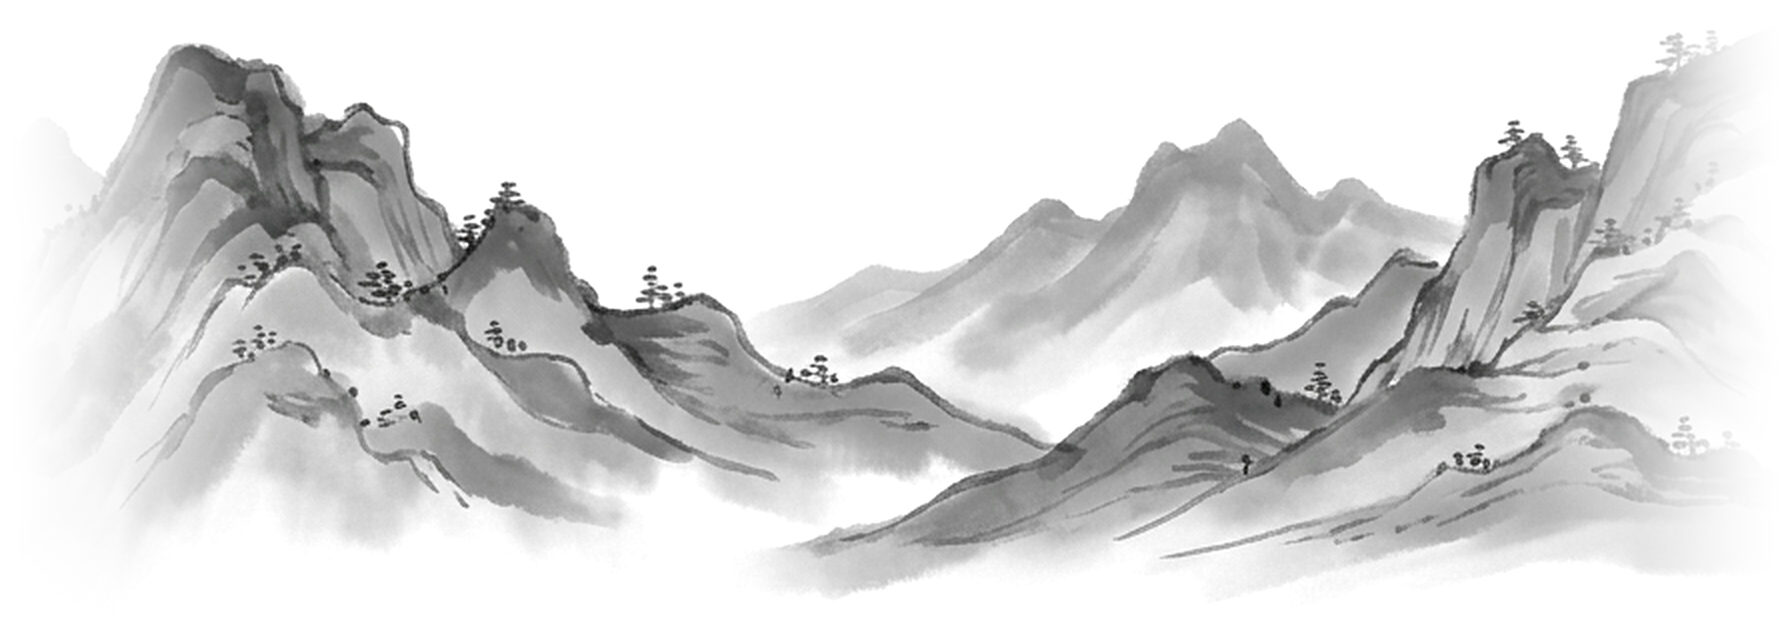
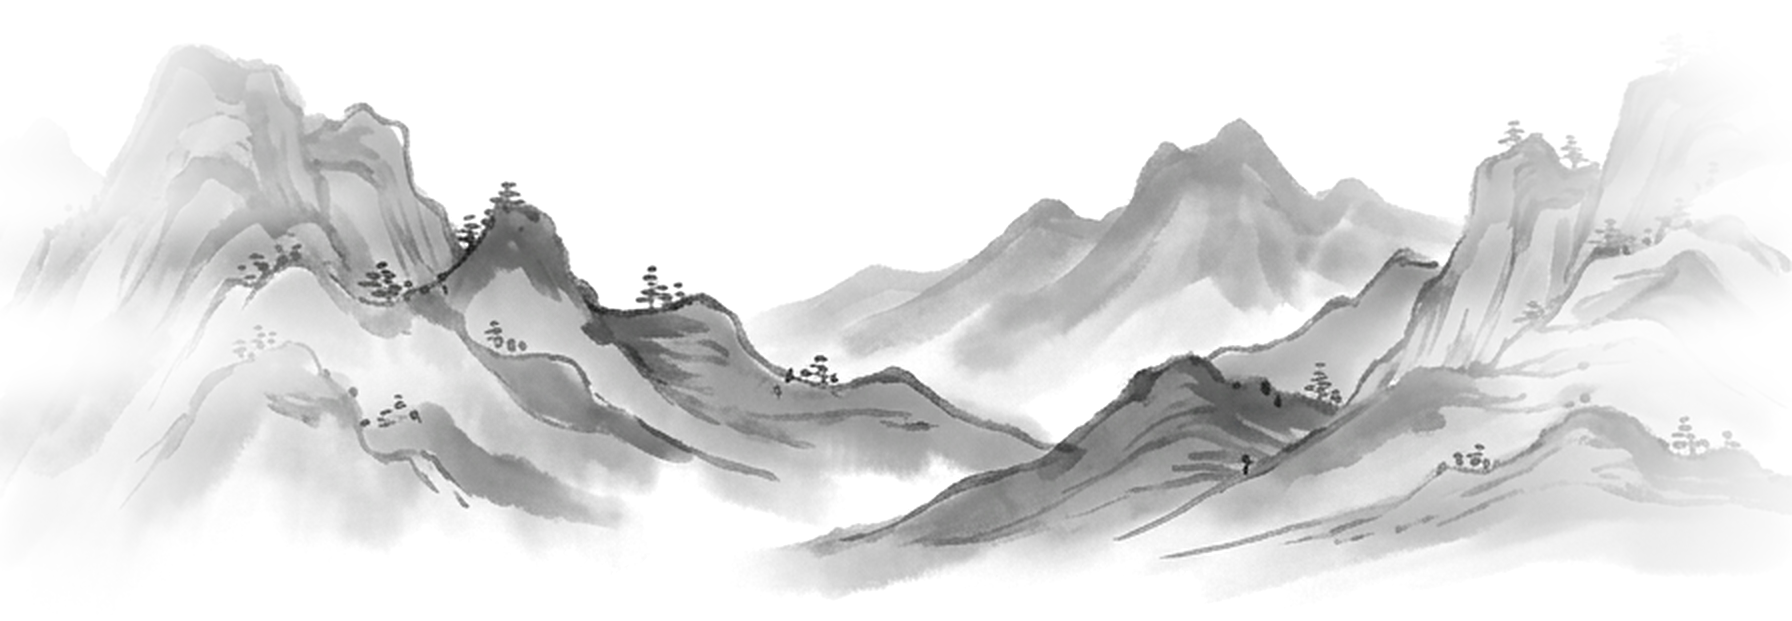
Fond shuimo : massifs coupés calés contre les bords du cadre
Un massif tronqué par sa planche est placé contre un bord, côté coupé hors champ
(retourné si besoin) ; le côté coupé se fond dans la brume par un long fondu
irrégulier. Les montagnes lointaines tronquées ne sont plus utilisées dans la chaîne.

Claude-Session: https://claude.ai/code/session_01JujgD4qcZp3fYYTkPGCC8k

diff --git a/xue/remotion/src/shuimo/layout.ts b/xue/remotion/src/shuimo/layout.ts
@@ -55,7 +55,7 @@ export function compose(seed: number, o: ComposeOptions): Shot {
   // montagnes lointaines : une chaîne continue de bandes qui se chevauchent
   const baseFar = r(470, 540);
   for (let x = r(-350, -100); x < W + 300;) {
-    const el = pickNew(of('lointain')), w = r(820, 1250), h = (w * el.h) / el.w;
+    const el = pickNew(of('lointain').filter((e) => !e.edges.includes('l') && !e.edges.includes('r'))), w = r(820, 1250), h = (w * el.h) / el.w;
     add(el, { x: x + w / 2, y: baseFar - h / 2 + r(-25, 25), h, depth: 0.12, opacity: r(0.6, 0.85) });
     x += w * r(0.5, 0.78);
   }
@@ -65,22 +65,36 @@ export function compose(seed: number, o: ComposeOptions): Shot {
     add(el, { x: r(200, 1700), y: r(520, 600), h: (w * el.h) / el.w, depth: 0.22, opacity: r(0.3, 0.5), drift: r(-14, 14), breathe: true });
   }
   // pics du plan moyen, plutôt sur les côtés
-  const wide = of('massif').length > 0; // massifs larges : 2 ou 3 par plan suffisent
-  const peaks = wide
-    ? [r(150, 480), r(1440, 1770), ...(R() < 0.35 ? [r(720, 1200)] : [])]
-    : [r(60, 460), r(1460, 1860), ...(R() < 0.5 ? [r(560, 760)] : []), ...(R() < 0.4 ? [r(1160, 1360)] : [])];
   const peakAt: { x: number; base: number; h: number }[] = [];
-  peaks.forEach((x) => {
-    // massifs (groupes de sommets reliés, planche 08) ; à défaut, pics isolés de la planche 02
-    const massif = of('massif').length > 0;
-    const el = pickNew(massif ? of('massif') : of('pic'));
-    const h = massif ? Math.min(r(560, 880) * el.h / el.w, 460) : r(300, 500), base = r(730, 810);
-    add(el, { x, y: base - h / 2, h, depth: 0.38, opacity: r(0.78, 0.95) });
-    peakAt.push({ x, base, h });
-  });
+  const massifs = of('massif');
+  if (massifs.length) {
+    // massifs (planches 08) : un massif coupé par le bord de sa planche est calé contre un bord du cadre, côté coupé
+    // hors champ (retourné en miroir si besoin) ; un massif entier se place librement
+    const over = 150; // marge hors cadre : travelling et zoom ne découvrent pas la coupure
+    (['l', 'r'] as const).forEach((side) => {
+      if (R() < 0.12) return; // parfois un seul massif, plus d'air
+      const free = massifs.filter((e) => !used.has(e.file));
+      if (!free.length) return;
+      const el = pick(free); used.add(el.file);
+      const w = r(780, 1050), h = (w * el.h) / el.w, base = r(745, 800);
+      const cut = el.edges.includes('l') || el.edges.includes('r');
+      const x = cut ? (side === 'l' ? w / 2 - over : W - w / 2 + over) : side === 'l' ? r(200, 480) : r(1440, 1720);
+      // le côté coupé doit tomber hors champ : à gauche il faut 'l', à droite 'r' (sinon miroir)
+      const flip = el.edges === 'lr' ? R() < 0.5 : cut ? !el.edges.includes(side) : R() < 0.5;
+      add(el, { x, y: base - h / 2, h, depth: 0.38, opacity: r(0.78, 0.95), flip });
+      peakAt.push({ x: side === 'l' ? 320 : 1600, base, h });
+    });
+  } else {
+    // ancienne banque : pics isolés
+    [r(60, 460), r(1460, 1860)].forEach((x) => {
+      const el = pickNew(of('pic')), h = r(300, 500), base = r(730, 810);
+      add(el, { x, y: base - h / 2, h, depth: 0.38, opacity: r(0.78, 0.95) });
+      peakAt.push({ x, base, h });
+    });
+  }
   // détail de vie (cascade, pavillon, pont, sentier) au pied d'un pic
   if (R() < 0.5) {
-    const p = pick(peakAt.slice(0, 2));
+    const p = pick(peakAt.length ? peakAt : [{ x: 400, base: 770, h: 300 }]);
     add(pick(of('scene')), { x: p.x + r(-120, 120), y: p.base - r(60, 140), h: r(150, 230), depth: 0.4, opacity: 0.85 });
   }
   // brume basse

diff --git a/xue/tools/build_shuimo.py b/xue/tools/build_shuimo.py
@@ -50,12 +50,17 @@ def split(rgba, family):
         crop[..., 3] *= ndimage.binary_dilation(lab[y0:y1, x0:x1] == i, iterations=pad)  # rien d'un voisin
         # touche-t-il un bord de la planche ? (bambou qui entre par le haut, falaise coupée…)
         edges = ''.join(s for s, c in (('t', y0 == 0), ('b', y1 == H), ('l', x0 == 0), ('r', x1 == W)) if c)
-        # massif ou chaîne coupés par le bord de la planche : le côté coupé s'efface en douceur (pas de tranche nette)
-        if family in ('massif', 'lointain'):
-            ww = crop.shape[1]; ramp = np.linspace(0, 1, max(2, int(ww * 0.18)))
-            ramp = ramp * ramp * (3 - 2 * ramp)
-            if 'l' in edges: crop[:, :len(ramp), 3] *= ramp[None, :]
-            if 'r' in edges: crop[:, -len(ramp):, 3] *= ramp[::-1][None, :]
+        # massif ou chaîne coupés par le bord de la planche : le côté coupé s'efface dans la brume — long fondu
+        # irrégulier (la limite ondule d'une rangée à l'autre), pour qu'aucune tranche ne se voie dans le cadre
+        if family in ('massif', 'lointain') and ('l' in edges or 'r' in edges):
+            hh, ww = crop.shape[:2]
+            L = ww * (0.4 if family == 'massif' else 0.18)
+            wob = ndimage.gaussian_filter1d(np.random.default_rng(i).standard_normal(hh), 30)
+            wob = (wob / (np.abs(wob).max() + 1e-6))[:, None] * 0.3 * L
+            xs = np.arange(ww, dtype=np.float32)[None, :]
+            sm = lambda u: u * u * (3 - 2 * u)
+            if 'l' in edges: crop[..., 3] *= sm(np.clip((xs - wob) / L, 0, 1))
+            if 'r' in edges: crop[..., 3] *= sm(np.clip((ww - 1 - xs - wob) / L, 0, 1))
         out.append((crop, (x0, y0), edges))
     # ordre de lecture : rangées puis colonnes
     rows = sorted(out, key=lambda e: e[1][1])

diff --git a/.claude/skills/fond-shuimo/SKILL.md b/.claude/skills/fond-shuimo/SKILL.md
@@ -41,6 +41,8 @@ const shot = compose(37, { move: 'rise', mood: 'jour', duration: 8 });   // grai
 ## Règles
 - Plan moyen : **massifs** (planches `08_massifs_*`, groupes de sommets reliés). Les pics isolés de l'ancienne
   planche 02 ont été retirés (« pics étranges, dupliqués ») ; un élément n'apparaît qu'une fois par plan (`pickNew`).
+  Un massif coupé par le bord de sa planche (`edges` l/r) est calé contre un bord du cadre, côté coupé hors champ
+  (miroir si besoin) ; le détourage fond le côté coupé dans la brume (long fondu irrégulier).
 - Le centre reste au contenu : massifs et premiers plans sur les côtés, halo de papier derrière le caractère.
 - Style des éléments : encre moderne minimaliste, un seul accent vermillon (soleil). Pour enrichir la banque,
   reprendre le bloc de style de `PROMPTS.md`, une planche d'éléments séparés sur fond blanc pur, nommée
